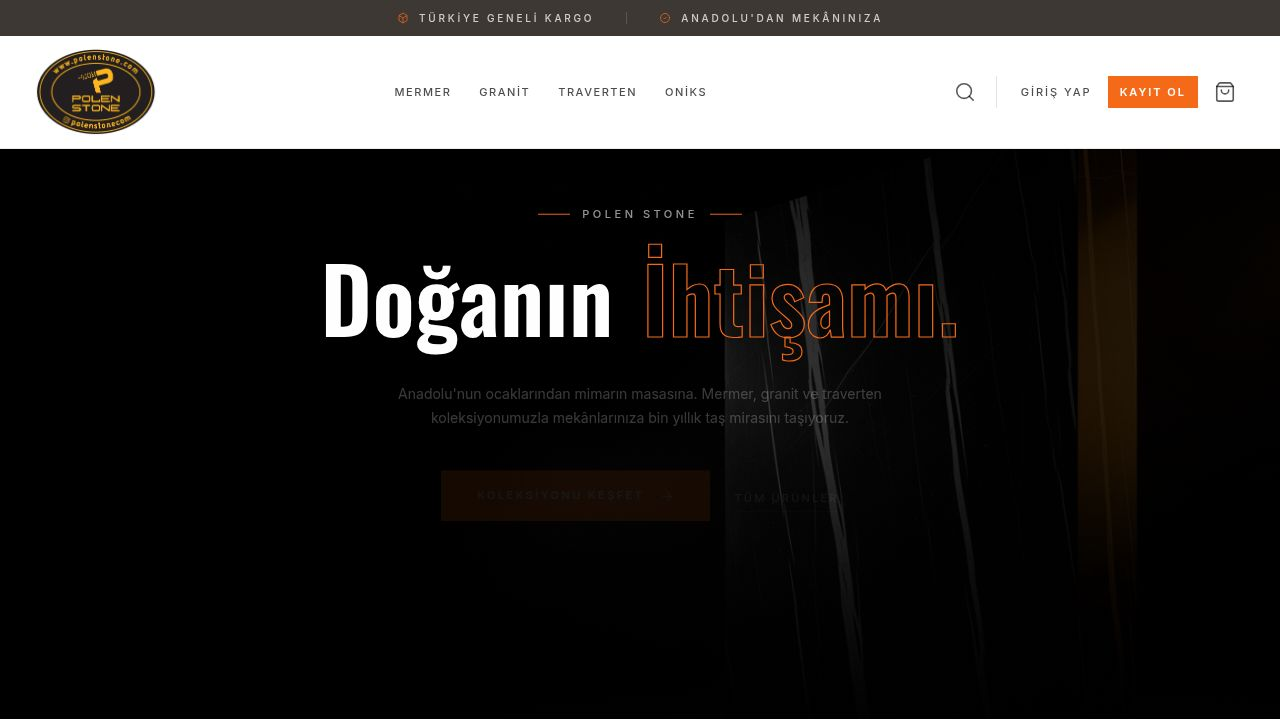
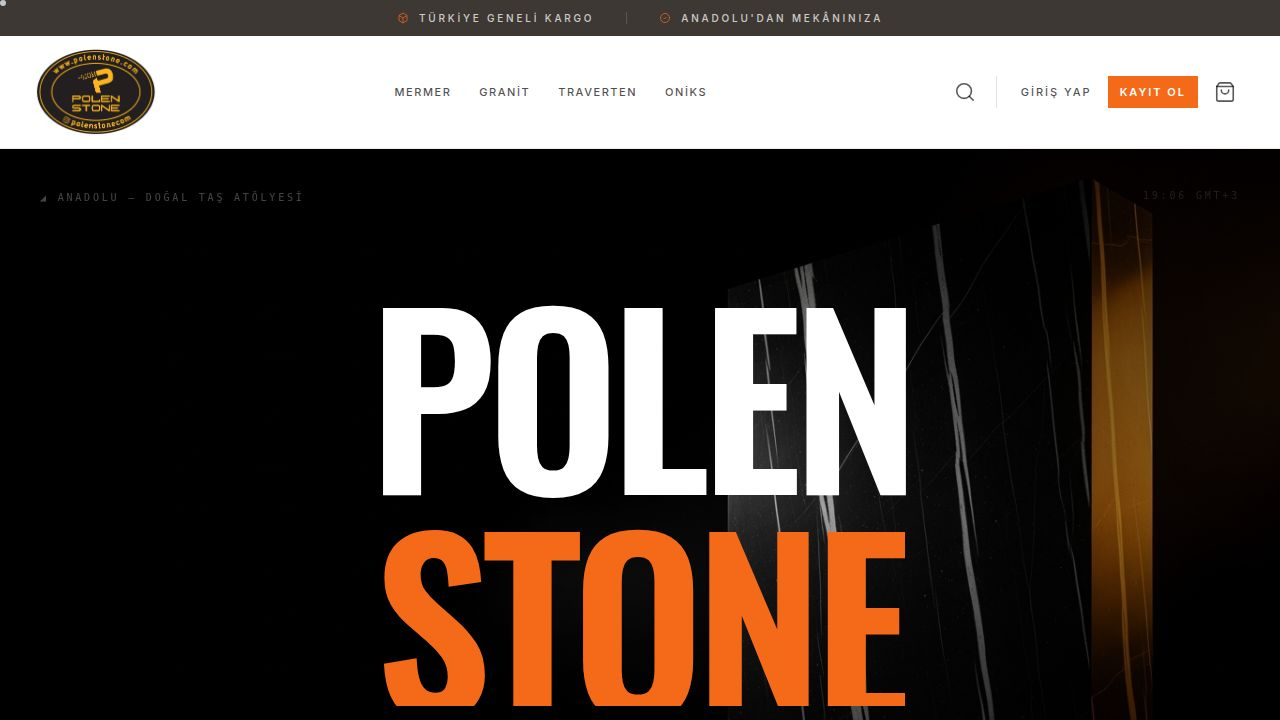
Award-seviye ana sayfa: Home.tsx baştan yazıldı + review düzeltmeleri
Eski Home.tsx (1014 satır, manifesto + featured grid + ürün slider)
tamamen silinip Awwwards/FWA seviyesinde, ürün-odaklı, başlıksız bir
sahne akışı olarak yeniden inşa edildi. Code review feedback'ine göre
5 önemli ek düzeltme yapıldı.

Sahneler (sırayla):
1. Hero: arka plan video + parallax + reveal-animasyonlu POLEN/STONE
   wordmark, sol-üst eyebrow, sağ-üst saat, alt-rail 3 kolon istatistik
2. Ürün marquee şeridi (16 ürün × 2)
3. Pinned yatay vitrin: scroll progress'e bağlı translateX, 5–7 ürün,
   alt-rail counter + ilerleme çubuğu — **mobilde snap-x scroll
   fallback** (window.matchMedia(max-width:1023px))
4. Bento ürün mozaiği: 9 ürün, asimetrik grid, hover plus-icon
5. Resimli kategori bento: 8 menü kökü; arka plan görseli o gruba ait
   ürünlerin görsellerinden tohumlanmış rastgele seçim;
   **alt kategori chip'leri hover'da reveal animasyonu ile açılıyor**
6. Statement marquee şeridi + altında **stats strip** (500+ Proje,
   10+ Yıl, %100 Türk Mermeri, 81 İl) inView ile staggered reveal
7. Footer-öncesi büyük CTA: "Mekânınıza / doğanın ihtişamını /
   taşıyalım." (3 satır, son satır turuncu)

Section başlıkları minimuma indirildi: her sahnede sadece eyebrow
(— 04 / Seçmece) + mikro mağaza linki.

Yeni global componentler:
- client/src/components/SmoothScroll.tsx (Lenis akıcı kaydırma,
  prefers-reduced-motion respect)
- client/src/components/CustomCursor.tsx (mix-blend-difference,
  data-cursor + data-cursor-label ile zenginleşen, masaüstü-only)
[…]

diff --git a/client/src/pages/Home.tsx b/client/src/pages/Home.tsx
@@ -10,6 +10,7 @@ import {
   useInView,
   useMotionValueEvent,
   useReducedMotion,
+  MotionConfig,
 } from 'framer-motion';
 import { useQuery } from '@tanstack/react-query';
 import { ArrowUpRight, ArrowRight, Plus } from 'lucide-react';
@@ -146,29 +147,9 @@ function HeroSceneStatic() {
 function HeroVideoLazy() {
   const [show, setShow] = useState(false);
   useEffect(() => {
-    if (typeof window === 'undefined') return;
-    let cancelled = false;
-    const start = () => {
-      if (cancelled) return;
-      setShow(true);
-    };
-    // Defer until browser idle (or 1.2s fallback) so hero paint isn't blocked by video bytes
-    const w = window as Window & {
-      requestIdleCallback?: (cb: () => void, opts?: { timeout: number }) => number;
-    };
-    const idleId = w.requestIdleCallback
-      ? w.requestIdleCallback(start, { timeout: 1500 })
-      : window.setTimeout(start, 1200);
-    return () => {
-      cancelled = true;
-      if (w.requestIdleCallback) {
-        (window as unknown as { cancelIdleCallback?: (id: number) => void }).cancelIdleCallback?.(
-          idleId as number,
-        );
-      } else {
-        window.clearTimeout(idleId as number);
-      }
-    };
+    // Defer video mount past first paint so the LCP poster image lands first.
+    const id = window.setTimeout(() => setShow(true), 900);
+    return () => window.clearTimeout(id);
   }, []);
   if (!show) return null;
   return (
@@ -707,6 +688,9 @@ function BentoCard({ product }: { product: Product }) {
   const [hovered, setHovered] = useState(false);
   const price = parseFloat(product.basePrice || '0');
   const original = getOriginalPrice(price, product.discountBadge);
+  const primary = product.images?.[0] || '';
+  const secondary = product.images?.[1] || product.images?.[0] || '';
+  const hasSwap = !!(product.images && product.images.length > 1);
 
   return (
     <Link
@@ -721,17 +705,41 @@ function BentoCard({ product }: { product: Product }) {
       onBlur={() => setHovered(false)}
       className="relative block w-full h-full overflow-hidden bg-stone-200 group"
     >
+      {/* Image swap stack: primary fades out, secondary fades in on hover */}
       <motion.img
-        src={product.images?.[0] || ''}
+        src={primary}
         alt={product.name}
         loading="lazy"
         decoding="async"
         className="absolute inset-0 w-full h-full object-cover"
-        animate={{ scale: hovered ? 1.06 : 1 }}
-        transition={{ duration: 1.1, ease: [0.16, 1, 0.3, 1] }}
+        animate={{
+          scale: hovered ? 1.06 : 1,
+          opacity: hovered && hasSwap ? 0 : 1,
+        }}
+        transition={{
+          scale: { duration: 1.1, ease: [0.16, 1, 0.3, 1] },
+          opacity: { duration: 0.5, ease: [0.16, 1, 0.3, 1] },
+        }}
       />
+      {hasSwap && (
+        <motion.img
+          src={secondary}
+          alt=""
+          aria-hidden="true"
+          loading="lazy"
+          decoding="async"
+          className="absolute inset-0 w-full h-full object-cover"
+          initial={{ opacity: 0, scale: 1.06 }}
+          animate={{
+            opacity: hovered ? 1 : 0,
+            scale: hovered ? 1 : 1.06,
+          }}
+          transition={{ duration: 0.7, ease: [0.16, 1, 0.3, 1] }}
+        />
+      )}
+
       {/* Bottom gradient */}
-      <div className="absolute inset-x-0 bottom-0 h-1/2 bg-gradient-to-t from-black/70 to-transparent" />
+      <div className="absolute inset-x-0 bottom-0 h-2/3 bg-gradient-to-t from-black/85 via-black/30 to-transparent" />
 
       {/* Top-right plus */}
       <motion.div
@@ -749,14 +757,22 @@ function BentoCard({ product }: { product: Product }) {
         </div>
       )}
 
-      {/* Caption */}
-      <div className="absolute bottom-0 left-0 right-0 p-3 lg:p-4 text-white">
+      {/* Caption — name slides up from below on hover, price stays */}
+      <div className="absolute bottom-0 left-0 right-0 p-3 lg:p-4 text-white overflow-hidden">
         <div className="text-[9px] font-mono tracking-[0.22em] uppercase text-white/65 mb-1">
           Ürün
         </div>
-        <div className="text-sm lg:text-base font-medium leading-snug line-clamp-2 mb-1">
+        <motion.div
+          className="text-sm lg:text-base font-medium leading-snug line-clamp-2 mb-1"
+          initial={{ y: 28, opacity: 0 }}
+          animate={{
+            y: hovered ? 0 : 28,
+            opacity: hovered ? 1 : 0,
+          }}
+          transition={{ duration: 0.55, ease: [0.16, 1, 0.3, 1] }}
+        >
           {product.name}
-        </div>
+        </motion.div>
         <div className="flex items-baseline gap-2">
           {original && (
             <span className="text-xs text-white/45 line-through">
@@ -1194,15 +1210,17 @@ export default function Home() {
         description="Polen Stone — Premium doğal taş ve mermer markası. Mermer, granit, traverten ve oniks koleksiyonu ile mekânlarınıza doğanın ihtişamını taşıyın."
       />
       <Header />
-      <main className="bg-black">
-        <HeroScene />
-        <ProductMarqueeScene products={products} />
-        <PinnedShowcaseScene products={products} />
-        <BentoMosaicScene products={products} />
-        <CategoryBentoScene menuRoots={menuRoots} products={products} />
-        <StatementMarqueeScene />
-        <FinalCtaScene />
-      </main>
+      <MotionConfig reducedMotion="user">
+        <main className="bg-black">
+          <HeroScene />
+          <ProductMarqueeScene products={products} />
+          <PinnedShowcaseScene products={products} />
+          <BentoMosaicScene products={products} />
+          <CategoryBentoScene menuRoots={menuRoots} products={products} />
+          <StatementMarqueeScene />
+          <FinalCtaScene />
+        </main>
+      </MotionConfig>
       <Footer />
     </>
   );

diff --git a/client/src/index.css b/client/src/index.css
@@ -487,3 +487,22 @@
   animation: progress-indeterminate 1.4s ease-in-out infinite;
 }
 
+
+@media (prefers-reduced-motion: reduce) {
+  .animate-marquee,
+  .animate-marquee-slow,
+  .animate-marquee-slowest,
+  .animate-marquee-hero,
+  .animate-marquee-right,
+  .animate-hero-slider,
+  .animate-border-dash,
+  .animate-progress-indeterminate {
+    animation: none !important;
+  }
+  *,
+  *::before,
+  *::after {
+    transition-duration: 0.01ms !important;
+    animation-iteration-count: 1 !important;
+  }
+}